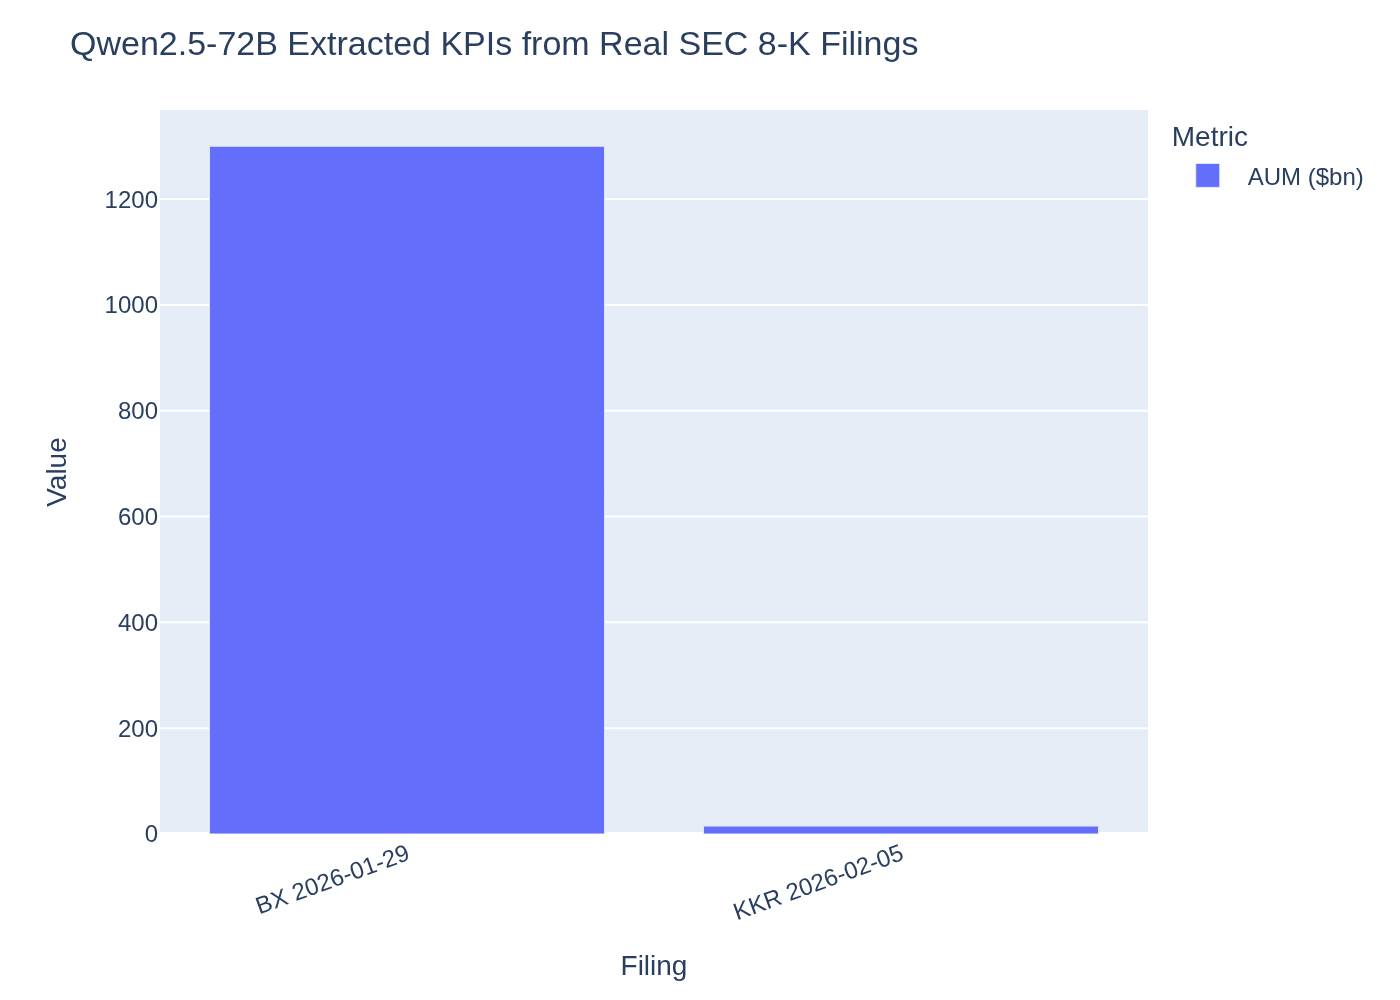
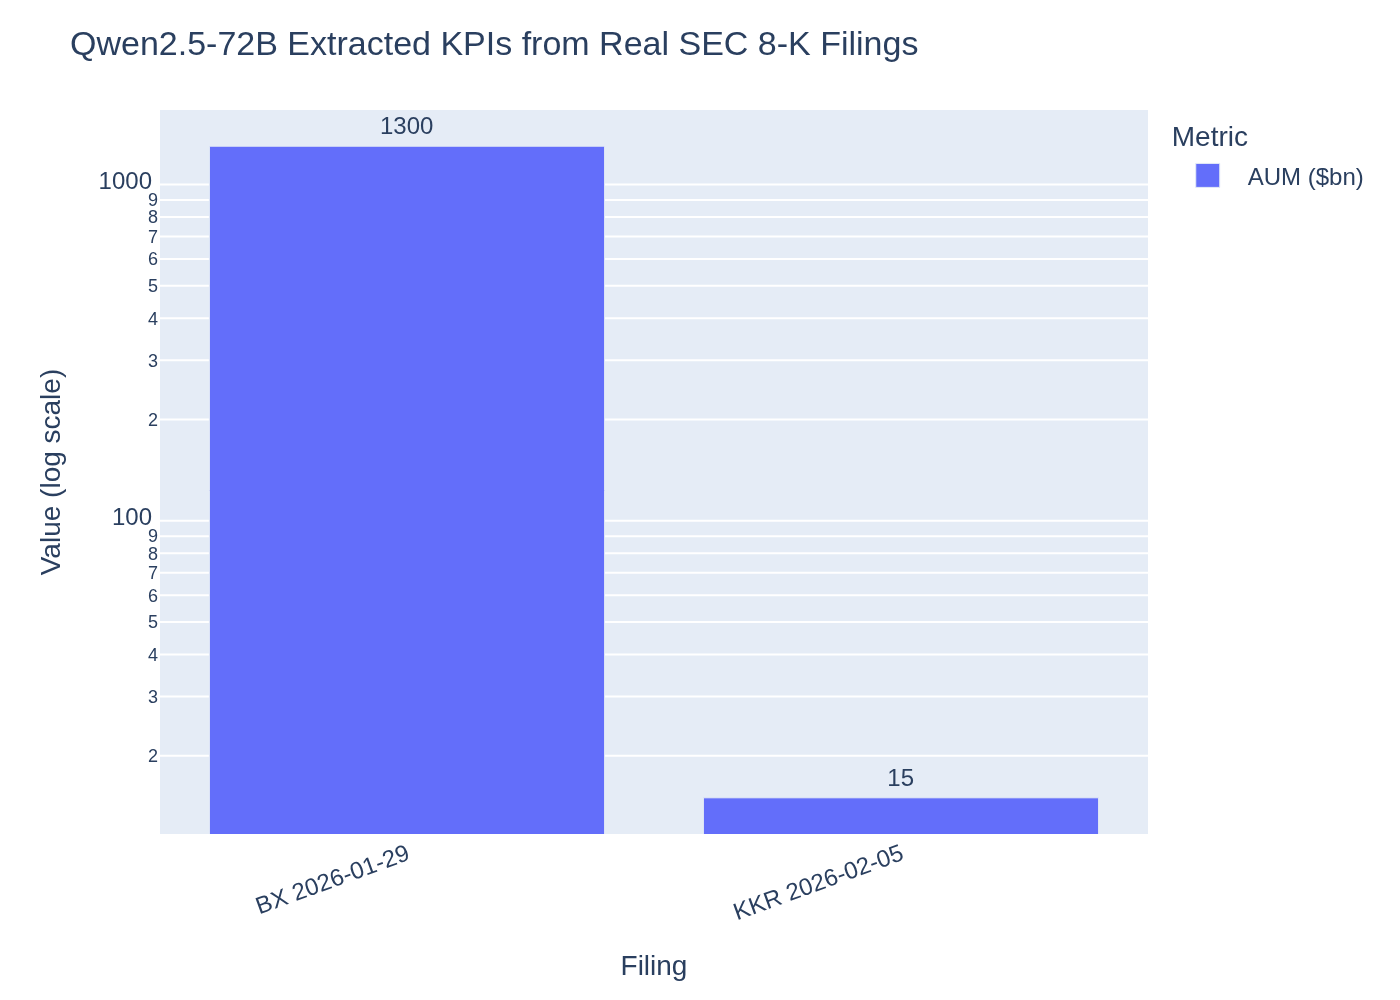
fix: heatmap per-row colorscales, KPI chart log scale + value labels

diff --git a/scripts/generate_screenshots.py b/scripts/generate_screenshots.py
@@ -143,16 +143,27 @@ for tkr in portfolio_tickers:
     neg_vals.append(round(100 * (sub["label"] == "negative").sum() / total, 1))
     neu_vals.append(round(100 * (sub["label"] == "neutral").sum() / total, 1))
 
-fig_heat = go.Figure(data=go.Heatmap(
-    z=[pos_vals, neg_vals, neu_vals],
-    x=portfolio_tickers,
-    y=["Positive %", "Negative %", "Neutral %"],
-    colorscale=[[0.0, "#f8f9fa"], [0.4, "#fff3cd"], [1.0, "#2ecc71"]],
-    text=[[f"{v:.0f}%" for v in pos_vals],
-          [f"{v:.0f}%" for v in neg_vals],
-          [f"{v:.0f}%" for v in neu_vals]],
-    texttemplate="%{text}",
-    showscale=True,
+fig_heat = go.Figure()
+fig_heat.add_trace(go.Heatmap(
+    z=[pos_vals], x=portfolio_tickers, y=["Positive %"],
+    colorscale=[[0, "#f0faf0"], [1, "#2ecc71"]],
+    zmin=0, zmax=100,
+    text=[[f"{v:.0f}%" for v in pos_vals]], texttemplate="%{text}",
+    showscale=False,
+))
+fig_heat.add_trace(go.Heatmap(
+    z=[neg_vals], x=portfolio_tickers, y=["Negative %"],
+    colorscale=[[0, "#fff5f5"], [1, "#e74c3c"]],
+    zmin=0, zmax=100,
+    text=[[f"{v:.0f}%" for v in neg_vals]], texttemplate="%{text}",
+    showscale=False,
+))
+fig_heat.add_trace(go.Heatmap(
+    z=[neu_vals], x=portfolio_tickers, y=["Neutral %"],
+    colorscale=[[0, "#f8f9fa"], [1, "#7f8c8d"]],
+    zmin=0, zmax=100,
+    text=[[f"{v:.0f}%" for v in neu_vals]], texttemplate="%{text}",
+    showscale=False,
 ))
 fig_heat.update_layout(
     title="Portfolio Sentiment Heatmap — real FinBERT scores",
@@ -183,8 +194,13 @@ if kpi_rows:
         title="Qwen2.5-72B Extracted KPIs from Real SEC 8-K Filings",
         labels={"Value": "Value"},
         height=420, width=800,
+        text="Value",
     )
-    fig_kpi.update_layout(margin=dict(t=55, b=60), xaxis_tickangle=-20)
+    fig_kpi.update_traces(texttemplate="%{text:.0f}", textposition="outside")
+    fig_kpi.update_layout(
+        margin=dict(t=55, b=60), xaxis_tickangle=-20,
+        yaxis_type="log", yaxis_title="Value (log scale)",
+    )
 else:
     # Fallback: show entity + sentiment from real extractions
     entities = [ex["extracted"].get("fund_or_entity_name", "unknown") for ex in extractions]
